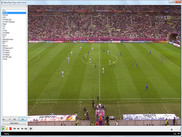
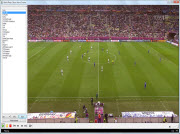
Resize mpc-hc.dvb.thumb.jpg to match the other screenshots and improve images for lower resolutions.

diff --git a/source/_static/css/style.css b/source/_static/css/style.css
@@ -390,6 +390,7 @@ table tbody tr:hover th {
     .span4,
     img.screenshot {
         width: 180px;
+        height: 130px;
     }
     .row {
         margin-left: auto;
@@ -399,6 +400,7 @@ table tbody tr:hover th {
 @media (max-width: 767px) {
     img.screenshot {
         width: 32%;
+        height: 24%;
     }
     div.screenshot {
         display: inline;
